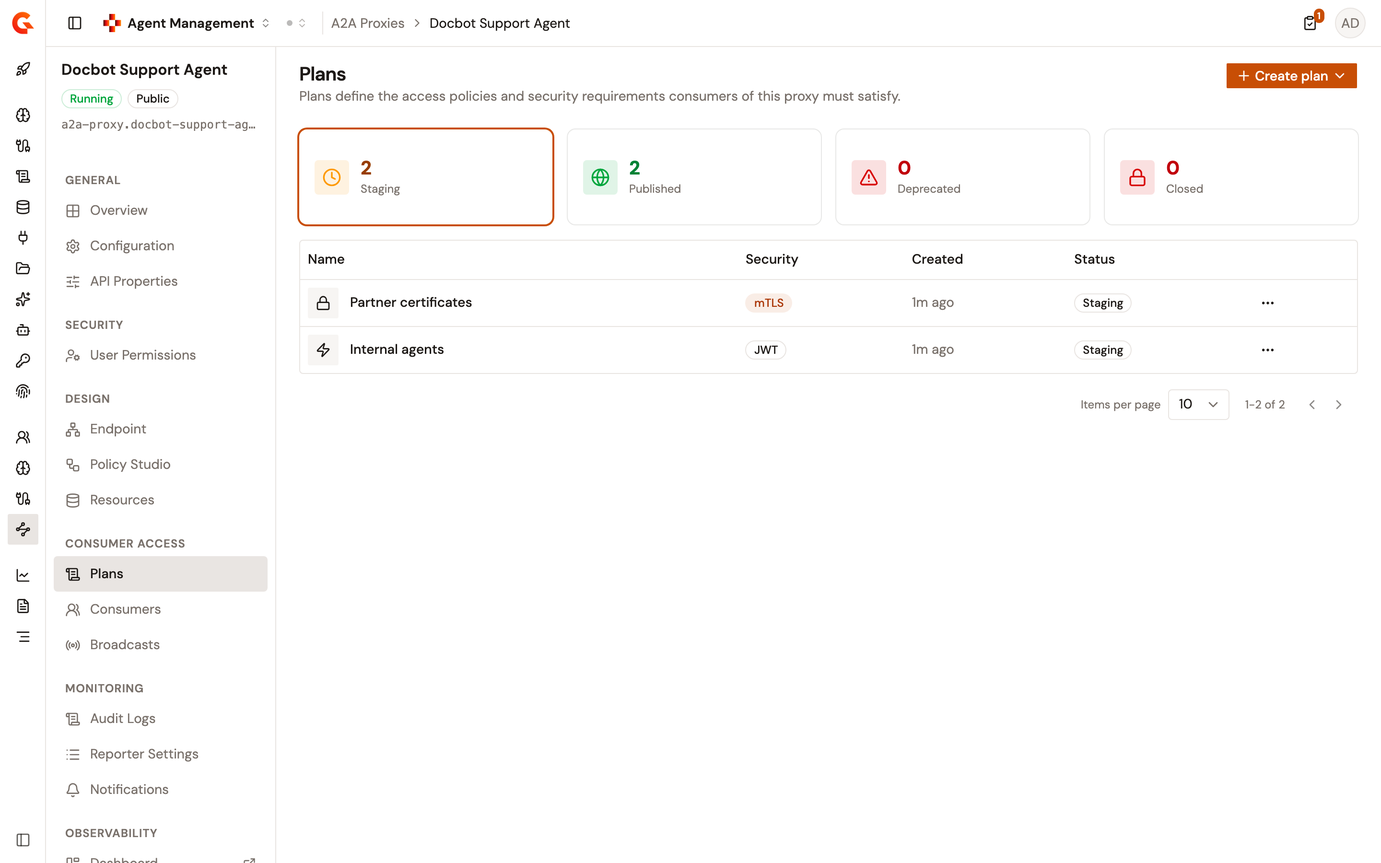
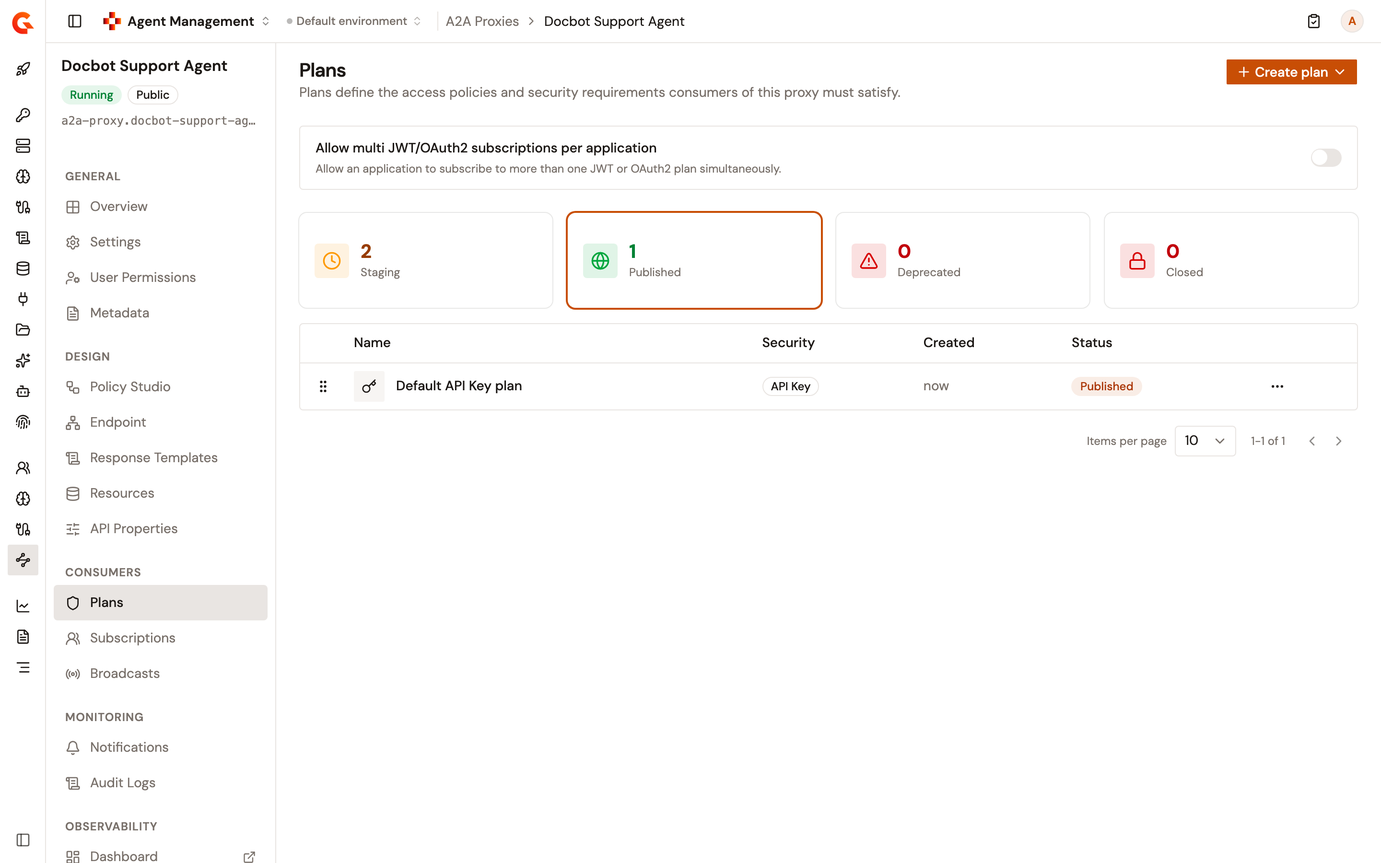
docs(gamma-4.13): document plan flows and plan editing for Agent Management proxies (AIAM-555)
- New page: Apply policies to specific plans (plan flows in the MCP Policy Studio)
- A2A Proxy plans: edit, deprecate, restrictions, auto validation, Consumers group
- LLM Proxy plans: Create plan menu, plans start in staging, plan actions
- Gamma 4.13 release notes entry and APIM 4.13 breaking change for LLM plans
- Recaptured A2A Plans page, new MCP Policy Studio captures

diff --git a/docs/gamma/4.13/agent-management/build/configure-your-a2a-proxy/manage-a2a-proxy-plans.md b/docs/gamma/4.13/agent-management/build/configure-your-a2a-proxy/manage-a2a-proxy-plans.md
@@ -1,27 +1,27 @@
 ---
 hidden: false
 noIndex: false
-description: Create, publish, and close the plans that control how consumers authenticate to an A2A Proxy. Follow the steps to manage plans from the Gamma console.
+description: Create, edit, publish, deprecate, and close the plans that control how consumers authenticate to an A2A Proxy. Follow the steps to manage plans from the Gamma console.
 ---
 
 # Manage A2A Proxy plans
 
-Each A2A Proxy detail view includes a **Plans** page under **Consumer Access**. Plans define the access policies and security requirements that consumers of the proxy must satisfy. A consumer subscribes to a published plan, and the gateway authenticates each call against that plan.
+Each A2A Proxy detail view includes a **Plans** page under **Consumers**. Plans define the access policies and security requirements that consumers of the proxy must satisfy. A consumer subscribes to a published plan, and the gateway authenticates each call against that plan.
 
-The A2A Proxy wizard creates and publishes a default plan when you create the proxy. Use the **Plans** page to add plans of other security types, to publish them, and to close them.
+The A2A Proxy wizard creates and publishes a default plan when you create the proxy. Use the **Plans** page to add plans, and to edit, publish, deprecate, or close them.
 
 ## Open the Plans page
 
-1. From the Gamma console sidebar, select **Agent Management**.
+1. In the Gamma console, open **Agent Management**.
 2. Under **Secure**, select **A2A Proxies**.
 3. Select your A2A Proxy.
-4. Under **Consumer Access**, select **Plans**.
+4. Under **Consumers**, select **Plans**.
 
-<figure><img src="../../.gitbook/assets/gamma-a2a-proxy-plans.png" alt="The Plans page of an A2A Proxy with the Staging, Published, Deprecated, and Closed status cards and the table of staging plans, with Plans selected under Consumer Access in the proxy sidebar"><figcaption><p>The Plans page</p></figcaption></figure>
+<figure><img src="../../.gitbook/assets/gamma-a2a-proxy-plans.png" alt="The Plans page of an A2A Proxy with the Staging, Published, Deprecated, and Closed status cards, the Published card selected, and Plans selected under Consumers in the proxy sidebar"><figcaption><p>The Plans page</p></figcaption></figure>
 
 ## Read the plan list
 
-Four cards, **Staging**, **Published**, **Deprecated**, and **Closed**, show how many plans are in each status. Select a card to list the plans in that status. The **Staging** card is selected when you open the page.
+Four cards, **Staging**, **Published**, **Deprecated**, and **Closed**, show how many plans are in each status. Select a card to list the plans in that status. When you open the page, the **Published** card is selected, or the first card that holds a plan when no plan is published.
 
 The table lists one row per plan, with the following columns:
 
@@ -32,7 +32,7 @@ The table lists one row per plan, with the following columns:
 | **Created**  | The creation date of the plan.                                                                                                               |
 | **Status**   | **Staging**, **Published**, **Deprecated**, or **Closed**.                                                                                   |
 
-Each row of a plan that isn't closed ends with an actions menu. The menu offers **Publish** for a staging plan, and **Close** for a staging, published, or deprecated plan. The table shows 10 plans per page by default.
+Each row of a plan that isn't closed ends with an actions menu. The menu offers **Edit** for any plan that isn't closed, **Publish** for a staging plan, **Deprecate** for a published plan, and **Close** for a staging, published, or deprecated plan. The table shows 10 plans per page by default. On the **Published** card, drag a plan by its handle to change the order of the published plans.
 
 Plans created outside Gamma, for example in the API Management console, are listed too when they use one of the five security types. Plans that use any other security type, and push plans, aren't listed.
 
@@ -42,19 +42,20 @@ A plan moves through the following statuses:
 
 * **Staging**. Every plan starts in staging when you create it, and stays there until you publish it. Consumers can't subscribe to a staging plan.
 * **Published**. Consumers can subscribe to the plan.
-* **Deprecated**. Consumers can't subscribe to the plan anymore. The **Plans** page can't deprecate a plan, but a plan deprecated in the API Management console is listed under the **Deprecated** card.
-* **Closed**. Every subscription on the plan is terminated, and the plan can't be reopened.
+* **Deprecated**. The plan isn't available on the Developer Portal anymore, and consumers can't subscribe to it. Existing subscriptions are maintained.
+* **Closed**. Every subscription on the plan is terminated, and the plan can't be reopened or edited.
 
 ## Create a plan
 
 To create a plan, follow these steps:
 
 1. Click **Create plan**, and then select a security type: **Keyless**, **API Key**, **JWT**, **OAuth2**, or **mTLS**. The **Create plan** page opens.
-2. In the **General** step, enter a **Name**. The name is shown to consumers subscribing to the proxy. Click **Next**.
-3. In the **Configure** step, complete the settings of the security type, and then click **Next**. A **Keyless** plan has no **Configure** step.
-4. In the **Review** step, check the plan settings, and then click **Create plan**.
+2. In the **General** step, enter a **Name** of up to 50 characters. The name is shown to consumers subscribing to the proxy. To approve subscription requests without a manual review, turn on **Auto validate subscription**. Click **Next**.
+3. In the **Configure** step, complete the settings of the security type, and then click **Next**. A **Keyless** plan has no **Configure** step. To choose between several plans of the same type, open **Additional selection rule**, and then enter an expression in **Selection rule**.
+4. Optional: In the **Restrictions** step, turn on **Rate limiting**, **Quota**, or both, and then set the limits. You set restrictions only when you create a plan. Click **Next**.
+5. In the **Review** step, check the plan settings, and then click **Create plan**.
 
-The plan is created in staging and appears in the table. Plans created on the **Plans** page use manual validation, so a subscription request waits for your approval.
+The plan is created in staging, and the **Staging** card opens. A subscription request waits for your approval unless you turned on **Auto validate subscription**.
 
 ### Configure an API Key plan
 
@@ -94,6 +95,10 @@ The name must match a resource that is declared and enabled on the proxy, both w
 
 An mTLS plan has no settings of its own. Clients present an X.509 certificate during the TLS handshake. Configure the trusted certificate authorities and the certificate validation rules in the gateway-level TLS settings.
 
+## Edit a plan
+
+To edit a plan that isn't closed, click its name, or open its actions menu and click **Edit**. Change the settings, and then click **Save changes**. The **Edit plan** page has no **Restrictions** step, and the security type of a plan can't be changed. To use another type, create a new plan.
+
 ## Publish a plan
 
 To publish a plan, open the actions menu of a staging plan, and then click **Publish**. A message confirms **Published** followed by the plan name, and the plan moves to the **Published** card.
@@ -103,6 +108,15 @@ Publishing is refused in the following cases, and the message shows the reason:
 * The plan isn't in staging.
 * The plan is an OAuth2 plan that names a resource the proxy doesn't declare.
 * The plan is a Keyless plan, and the proxy already has a published or deprecated Keyless plan.
+
+## Deprecate a plan
+
+To deprecate a plan, follow these steps:
+
+1. Open the actions menu of a published plan, and then click **Deprecate**.
+2. In the **Deprecate plan?** dialog, click **Deprecate plan**.
+
+A message confirms **Deprecated** followed by the plan name, and the plan moves to the **Deprecated** card.
 
 ## Close a plan
 
@@ -115,14 +129,14 @@ A message confirms **Closed** followed by the plan name, and the plan moves to t
 
 ## Deploy the change
 
-Publishing or closing a plan marks the proxy out of sync. Creating a plan doesn't. The proxy shows the **This API is out of sync** banner until you deploy it. Click **Deploy** on the banner, optionally enter a **Deployment label**, and then click **Deploy** in the **Deploy your API** dialog.
+Publishing or closing a plan marks the proxy out of sync. Creating, renaming, or deprecating a plan doesn't. The proxy shows the **This API is out of sync** banner until you deploy it. Click **Deploy** on the banner, optionally enter a **Deployment label**, and then click **Deploy** in the **Deploy your API** dialog.
 
 ## Verification
 
 To verify a plan is available to consumers, follow these steps:
 
 1. Create a plan of any type except Keyless, publish it, and then deploy the proxy.
-2. Under **Consumer Access**, select **Consumers**, and then click **Create subscription**.
+2. Under **Consumers**, select **Subscriptions**, and then click **Create subscription**.
 3. Open the **Subscription Plan** list. The plan is listed. For the steps to complete the subscription, see [Manage subscriptions](../../publish/manage-subscriptions.md).
 
 The gateway applies a deployment within a few seconds. If a call still uses the previous plans right after you deploy, wait a moment and try again.

diff --git a/docs/gamma/4.13/agent-management/build/configure-your-mcp/apply-policies-to-plans.md b/docs/gamma/4.13/agent-management/build/configure-your-mcp/apply-policies-to-plans.md
@@ -1,0 +1,57 @@
+---
+hidden: false
+noIndex: false
+description: Apply policies only to the calls that one plan of an MCP Proxy secures, such as a stricter rate limit for a trial plan. Follow the steps to create a plan flow.
+---
+
+# Apply policies to specific plans
+
+A plan flow runs its policies only on the calls that one plan of an MCP Proxy or MCP Studio secures. Use it to give each plan its own limits or transformations, such as a stricter rate limit for a trial plan. The **Policy Studio** lists plan flows under **Plan Flows**, grouped by plan, above **Common Flows** and **MCP Method Flows**.
+
+## Before you begin
+
+**Plan Flows** offers only the published and deprecated plans of the proxy. Publish the plan on the **Plans** page under **Consumers** before you create its flow.
+
+## Create a plan flow
+
+To create a plan flow, follow these steps:
+
+1. In the Gamma console, open **Agent Management**.
+2. Under **Secure**, select **MCP Proxies**, and then select your MCP Proxy or MCP Studio.
+3. Under **Design**, select **Policy Studio**.
+4. Next to **Plan Flows**, click the add icon.
+5. In the **Create a new plan flow** panel, complete the following fields:
+    * **Flow name**. Enter a name for the flow.
+    * **Associated plan**. Select the plan whose calls the flow applies to.
+    * **MCP methods**. Optional: Select the MCP methods that the flow applies to, such as `tools/call`. Leave it empty to apply the flow to every MCP method.
+    * **Condition**. Optional: Enter an Expression Language condition that must be true for the flow to run.
+
+    <figure><img src="../../.gitbook/assets/gamma-aim-mcp-proxy-create-plan-flow.png" alt="The Create a new plan flow panel with Trial tool call limit as the flow name, Trial access as the associated plan, and tools/call selected under MCP methods"><figcaption><p>A plan flow for the tool calls of one plan</p></figcaption></figure>
+6. Click **Create**.
+7. In the **Request Phase** or the **Response Phase**, click **Add policy**, select a policy, such as **Rate Limit**, and then configure it.
+8. Click **Save**.
+9. Click **Deploy** on the **This API is out of sync** banner, and then click **Deploy** in the **Deploy your API** dialog.
+
+## How a plan flow runs
+
+A plan flow follows these rules at the gateway:
+
+* It runs only on the calls that its plan secures. Calls secured by another plan of the proxy skip it.
+* With MCP methods selected, it runs only on calls to those methods. Without MCP methods, it runs on every call that its plan secures.
+* In each phase, the flows of the plan run before the common flows and the MCP method flows of the proxy.
+* A change reaches the gateway only when you deploy the proxy. Saving the **Policy Studio** doesn't deploy it.
+
+## Verification
+
+To verify the plan flow is working as expected, follow these steps:
+
+1. In the **Policy Studio**, check that the flow is listed under **Plan Flows**, below the name of its plan.
+
+    <figure><img src="../../.gitbook/assets/gamma-aim-mcp-proxy-plan-flow.png" alt="The Policy Studio of an MCP Proxy with the Trial tool call limit flow selected under Plan Flows and Trial access, and a Rate Limit policy in the Request Phase"><figcaption><p>A plan flow with a Rate Limit policy</p></figcaption></figure>
+2. Call the proxy with the credential of a subscription to the plan, until the policy acts. For example, with a **Rate Limit** policy that allows 2 requests per minute on `tools/call`, the third `tools/call` within a minute receives a `429` response.
+3. Make the same calls with the credential of a subscription to another plan. The policy doesn't act on them.
+
+## Next steps
+
+* [Apply policies to specific MCP methods](apply-policies-to-mcp-methods.md). Apply policies to the calls of one MCP method, whatever the plan.
+* [Manage subscriptions](../../publish/manage-subscriptions.md). Subscribe an application to a plan, and find the credential that it calls the proxy with.

diff --git a/docs/gamma/4.13/agent-management/build/configure-an-llm-proxy.md b/docs/gamma/4.13/agent-management/build/configure-an-llm-proxy.md
@@ -15,7 +15,7 @@ The LLM Proxy detail view groups its pages as follows.
 * **General**: **Overview**, **Configuration**, **API Properties**, **Metadata**, and **CORS**. The **Overview** page shows a **Connection** card with the gateway URLs of the proxy.
 * **Security**: **User Permissions**.
 * **Design**: **Models**, **Entrypoints**, **Endpoints** with its **Failover** page, **Policy Studio**, and **Resources**.
-* **Consumer Access**: **Plans**, **Consumers**, and **Broadcasts**.
+* **Consumers**: **Plans**, **Subscriptions**, and **Broadcasts**.
 * **Monitoring**: **Audit Logs**, **Reporter Settings**, and **Notifications**.
 * **Observability**: **Dashboard**, **Logs**, and **Tracing**, each shown when its deep link is available.
 * **Operations**: **Deployment**, with its **Configuration** and **History** pages.
@@ -113,23 +113,19 @@ Security plans control how consumers authenticate when they send prompts through
 
 To add a security plan, complete the following steps:
 
-1. On the LLM Proxy detail page, under **Consumer Access**, open **Plans**.
-2. Click **Add plan**.
-3. Complete the **General**, **Security**, **Configure**, and **Review** steps of the **Create Plan** wizard.
+1. On the LLM Proxy detail page, under **Consumers**, select **Plans**.
+2. Click **Create plan**, and then select a security type: **Keyless**, **API Key**, **JWT**, **OAuth2**, or **mTLS**.
+3. Complete the **General**, **Configure**, **Restrictions**, and **Review** steps, and then click **Create plan**. A **Keyless** plan has no **Configure** step.
+4. Open the actions menu of the new plan, and then click **Publish**. A plan that you add to an existing LLM Proxy starts in staging, and consumers can't subscribe to it until it's published.
+5. Click **Deploy** on the **This API is out of sync** banner, and then click **Deploy** in the **Deploy your API** dialog.
 
-The LLM Proxy supports the same comprehensive plan types as API proxies. The **Security** step presents the following plan types in this order:
-
-* **Keyless** (`KEY_LESS`)
-* **API Key** (`API_KEY`)
-* **JWT** (`JWT`)
-* **OAuth 2.0** (`OAUTH2`)
-* **mTLS** (`MTLS`)
+The actions menu of a plan also offers **Edit** for a plan that isn't closed, **Deprecate** for a published plan, and **Close**. Closing a plan terminates every subscription on it and can't be undone. You set restrictions only when you create a plan, and the security type of a plan can't be changed.
 
 See [Secure your API proxy](../../api-management/build/secure-your-api-proxy.md) for detailed plan type descriptions.
 
 ## Broadcasts
 
-To send a one-way announcement to the consumers of the LLM Proxy, under **Consumer Access**, select **Broadcasts**. For the steps to compose and send one, see [Broadcast messages to proxy consumers](broadcast-messages-to-proxy-consumers.md).
+To send a one-way announcement to the consumers of the LLM Proxy, under **Consumers**, select **Broadcasts**. For the steps to compose and send one, see [Broadcast messages to proxy consumers](broadcast-messages-to-proxy-consumers.md).
 
 ## Cost visibility
 

diff --git a/docs/gamma/4.13/agent-management/build/configure-your-a2a-proxy/README.md b/docs/gamma/4.13/agent-management/build/configure-your-a2a-proxy/README.md
@@ -11,7 +11,7 @@ After creating an Agent-to-Agent (A2A) Proxy, you can configure its behavior, ma
 The Gamma console provides a visual builder to apply policies and manage flows on your A2A Proxy.
 
 * **[Add policies to your A2A Proxy](add-policies-to-a2a-proxy.md)**. Learn how to use the Policy Studio to attach security, transformation, and logic policies to your A2A communications.
-* **[Manage A2A Proxy plans](manage-a2a-proxy-plans.md)**. Create, publish, and close the plans that control how consumers authenticate to the proxy.
+* **[Manage A2A Proxy plans](manage-a2a-proxy-plans.md)**. Create, edit, publish, deprecate, and close the plans that control how consumers authenticate to the proxy.
 * **[Configure logging and tracing](configure-logging-and-tracing.md)**. Control the reported request and response data, and enable OpenTelemetry tracing.
 
 ## A2A Proxy navigation
@@ -29,9 +29,9 @@ When you open an A2A Proxy from the list, the sidebar offers the following group
   * **Endpoint**. Configure the target URL of the upstream agent and the upstream authentication.
   * **Policy Studio**. Design your flows and apply policies to agent-to-agent communication. See [Add policies to your A2A Proxy](add-policies-to-a2a-proxy.md).
   * **Resources**. Manage the resources that the policies and the OAuth2 plans of the proxy reference by name. See [Configure resources for your proxies](../configure-resources-for-your-proxies.md).
-* **Consumer Access**:
-  * **Plans**. Create, publish, and close the plans that control how consumers authenticate. See [Manage A2A Proxy plans](manage-a2a-proxy-plans.md).
-  * **Consumers**. Create, approve, reject, and close the subscriptions to the plans. See [Manage subscriptions](../../publish/manage-subscriptions.md).
+* **Consumers**:
+  * **Plans**. Create, edit, publish, deprecate, and close the plans that control how consumers authenticate. See [Manage A2A Proxy plans](manage-a2a-proxy-plans.md).
+  * **Subscriptions**. Create, approve, reject, and close the subscriptions to the plans. See [Manage subscriptions](../../publish/manage-subscriptions.md).
   * **Broadcasts**. Send a one-way announcement to the consumers of the proxy. See [Broadcast messages to proxy consumers](../broadcast-messages-to-proxy-consumers.md).
 * **Monitoring**:
   * **Audit Logs**. Review the audit trail of the proxy. See [Review audit logs](../../observe/review-audit-logs.md).

diff --git a/docs/gamma/4.13/SUMMARY.md b/docs/gamma/4.13/SUMMARY.md
@@ -293,6 +293,7 @@
         * [Configure MCP Proxy notifications](agent-management/build/configure-mcp-proxy-notifications.md)
       * [Design](agent-management/build/mcp-proxies/design/README.md)
         * [Add policies to your MCP server](agent-management/build/configure-your-mcp/add-policies-to-mcp-server.md)
+          * [Apply policies to specific plans](agent-management/build/configure-your-mcp/apply-policies-to-plans.md)
           * [Apply policies to specific MCP methods](agent-management/build/configure-your-mcp/apply-policies-to-mcp-methods.md)
           * [Apply policies to individual tool invocations](agent-management/build/configure-your-mcp/apply-policies-to-tool-invocations.md)
           * [Layered governance for MCP tools](agent-management/build/configure-your-mcp/govern-mcp-tool-access.md)
@@ -323,7 +324,7 @@
       * [Operations](agent-management/build/a2a-proxies/operations/README.md)
         * [Configure A2A Proxy deployment](agent-management/build/configure-a2a-proxy-deployment.md)
         * [Review A2A Proxy deployment history](agent-management/build/review-a2a-proxy-deployment-history.md)
-      * [Consumer access](agent-management/build/a2a-proxies/consumer-access/README.md)
+      * [Consumers](agent-management/build/a2a-proxies/consumer-access/README.md)
         * [Manage A2A Proxy plans](agent-management/build/configure-your-a2a-proxy/manage-a2a-proxy-plans.md)
   * [Manage subscriptions](agent-management/publish/manage-subscriptions.md)
   * [Broadcast messages to proxy consumers](agent-management/build/broadcast-messages-to-proxy-consumers.md)

diff --git a/docs/gamma/4.13/platform-management/gamma-release-notes.md b/docs/gamma/4.13/platform-management/gamma-release-notes.md
@@ -81,6 +81,14 @@ Agent Management adds AI Workspaces, which give a team governed access to chosen
 * The export holds every matching subscription, not only the current page of the table.
 * See [Manage subscriptions](../agent-management/publish/manage-subscriptions.md).
 
+#### Plan editing and plan flows for LLM, MCP, and A2A Proxies
+
+* The actions menu of a plan on the **Plans** page of each LLM Proxy, MCP Proxy, and A2A Proxy offers **Edit** and **Deprecate**, and LLM Proxy plans also gain **Publish** and **Close**. The security type of a plan can't be changed.
+* A plan added from the **Plans** page of an LLM Proxy starts in staging. Publish it before consumers can subscribe.
+* The **Plans** page of each MCP Proxy and MCP Studio creates **mTLS** plans, and its **OAuth2** plans validate tokens with an OAuth2 resource declared on the proxy.
+* The **Policy Studio** of each MCP Proxy and MCP Studio adds **Plan Flows**, whose policies run only on the calls that one plan secures.
+* See [Apply policies to specific plans](../agent-management/build/configure-your-mcp/apply-policies-to-plans.md), [Manage A2A Proxy plans](../agent-management/build/configure-your-a2a-proxy/manage-a2a-proxy-plans.md), and [Configure an LLM Proxy](../agent-management/build/configure-an-llm-proxy.md#security).
+
 #### Entrypoint configuration and navigation for LLM Proxies
 
 * Each LLM Proxy detail view adds an **Entrypoints** page under **Design**. Add or remove context paths, switch the proxy to virtual hosts, and edit the options of the LLM Proxy entrypoint plugin after creation.

diff --git a/docs/gamma/4.13/agent-management/SUMMARY.md b/docs/gamma/4.13/agent-management/SUMMARY.md
@@ -70,6 +70,7 @@
         * [Configure MCP Proxy notifications](build/configure-mcp-proxy-notifications.md)
       * [Design](build/mcp-proxies/design/README.md)
         * [Add policies to your MCP server](build/configure-your-mcp/add-policies-to-mcp-server.md)
+          * [Apply policies to specific plans](build/configure-your-mcp/apply-policies-to-plans.md)
           * [Apply policies to specific MCP methods](build/configure-your-mcp/apply-policies-to-mcp-methods.md)
           * [Apply policies to individual tool invocations](build/configure-your-mcp/apply-policies-to-tool-invocations.md)
           * [Layered governance for MCP tools](build/configure-your-mcp/govern-mcp-tool-access.md)
@@ -100,7 +101,7 @@
       * [Operations](build/a2a-proxies/operations/README.md)
         * [Configure A2A Proxy deployment](build/configure-a2a-proxy-deployment.md)
         * [Review A2A Proxy deployment history](build/review-a2a-proxy-deployment-history.md)
-      * [Consumer access](build/a2a-proxies/consumer-access/README.md)
+      * [Consumers](build/a2a-proxies/consumer-access/README.md)
         * [Manage A2A Proxy plans](build/configure-your-a2a-proxy/manage-a2a-proxy-plans.md)
   * [Manage subscriptions](publish/manage-subscriptions.md)
   * [Broadcast messages to proxy consumers](build/broadcast-messages-to-proxy-consumers.md)

diff --git a/docs/apim/4.13/release-information/breaking-changes-and-deprecations.md b/docs/apim/4.13/release-information/breaking-changes-and-deprecations.md
@@ -107,6 +107,10 @@ From 4.13.0, an LLM Proxy reads images, audio, video, and files in requests sent
 
 To forward a content type, set its option to `ALLOW` in the entrypoint configuration of the LLM Proxy, and redeploy the API. `REJECT` refuses a request that carries the content, with an HTTP `400` error and the code `modality_blocked`.
 
+**A plan added to an existing LLM Proxy starts in staging**
+
+From 4.13.0, a plan that you add on the **Plans** page of an LLM Proxy starts in staging, like the plans of MCP Proxies and A2A Proxies. Consumers can't subscribe to it until you publish it from the actions menu of the plan, and it takes effect once you deploy the proxy. In 4.12, a plan added to an existing LLM Proxy was published right away. The plans that the LLM Proxy creation wizard creates are still published.
+
 **FIPS images: JKS and PKCS12 keystores no longer load**
 
 From 4.13.0, the FIPS image variants are built on a JDK 25 FIPS base image. The 4.12 FIPS images used JDK 21. On the JDK 25 base, BouncyCastle FIPS in approved-only mode provides no PKCS12 keystore and answers JKS read-only, so neither format loads. A FIPS deployment that upgrades from 4.12 while keeping a `jks` or `pkcs12` keystore or truststore on the Gateway fails to start its TLS listeners.

diff --git a/docs/gamma/4.13/agent-management/build/a2a-proxies/consumer-access/README.md b/docs/gamma/4.13/agent-management/build/a2a-proxies/consumer-access/README.md
@@ -4,9 +4,9 @@ noIndex: false
 description: Control how consumers authenticate to an A2A Proxy and manage the subscriptions that grant them access. Follow the guides to open a proxy to its consumers.
 ---
 
-# Consumer access
+# Consumers
 
-Open an A2A Proxy to the consumers you choose, then manage their subscription requests through the lifecycle.
+The **Consumers** group of an A2A Proxy holds the **Plans**, **Subscriptions**, and **Broadcasts** pages.
 
-* [**Manage A2A Proxy plans**](../../configure-your-a2a-proxy/manage-a2a-proxy-plans.md). Create, publish, and close the plans that control how consumers authenticate to the proxy.
+* [**Manage A2A Proxy plans**](../../configure-your-a2a-proxy/manage-a2a-proxy-plans.md). Create, edit, publish, deprecate, and close the plans that control how consumers authenticate to the proxy.
 * [**Manage subscriptions**](../../../publish/manage-subscriptions.md). Subscribe an application to a plan, approve the request, and find the credential the AI Gateway checks.
